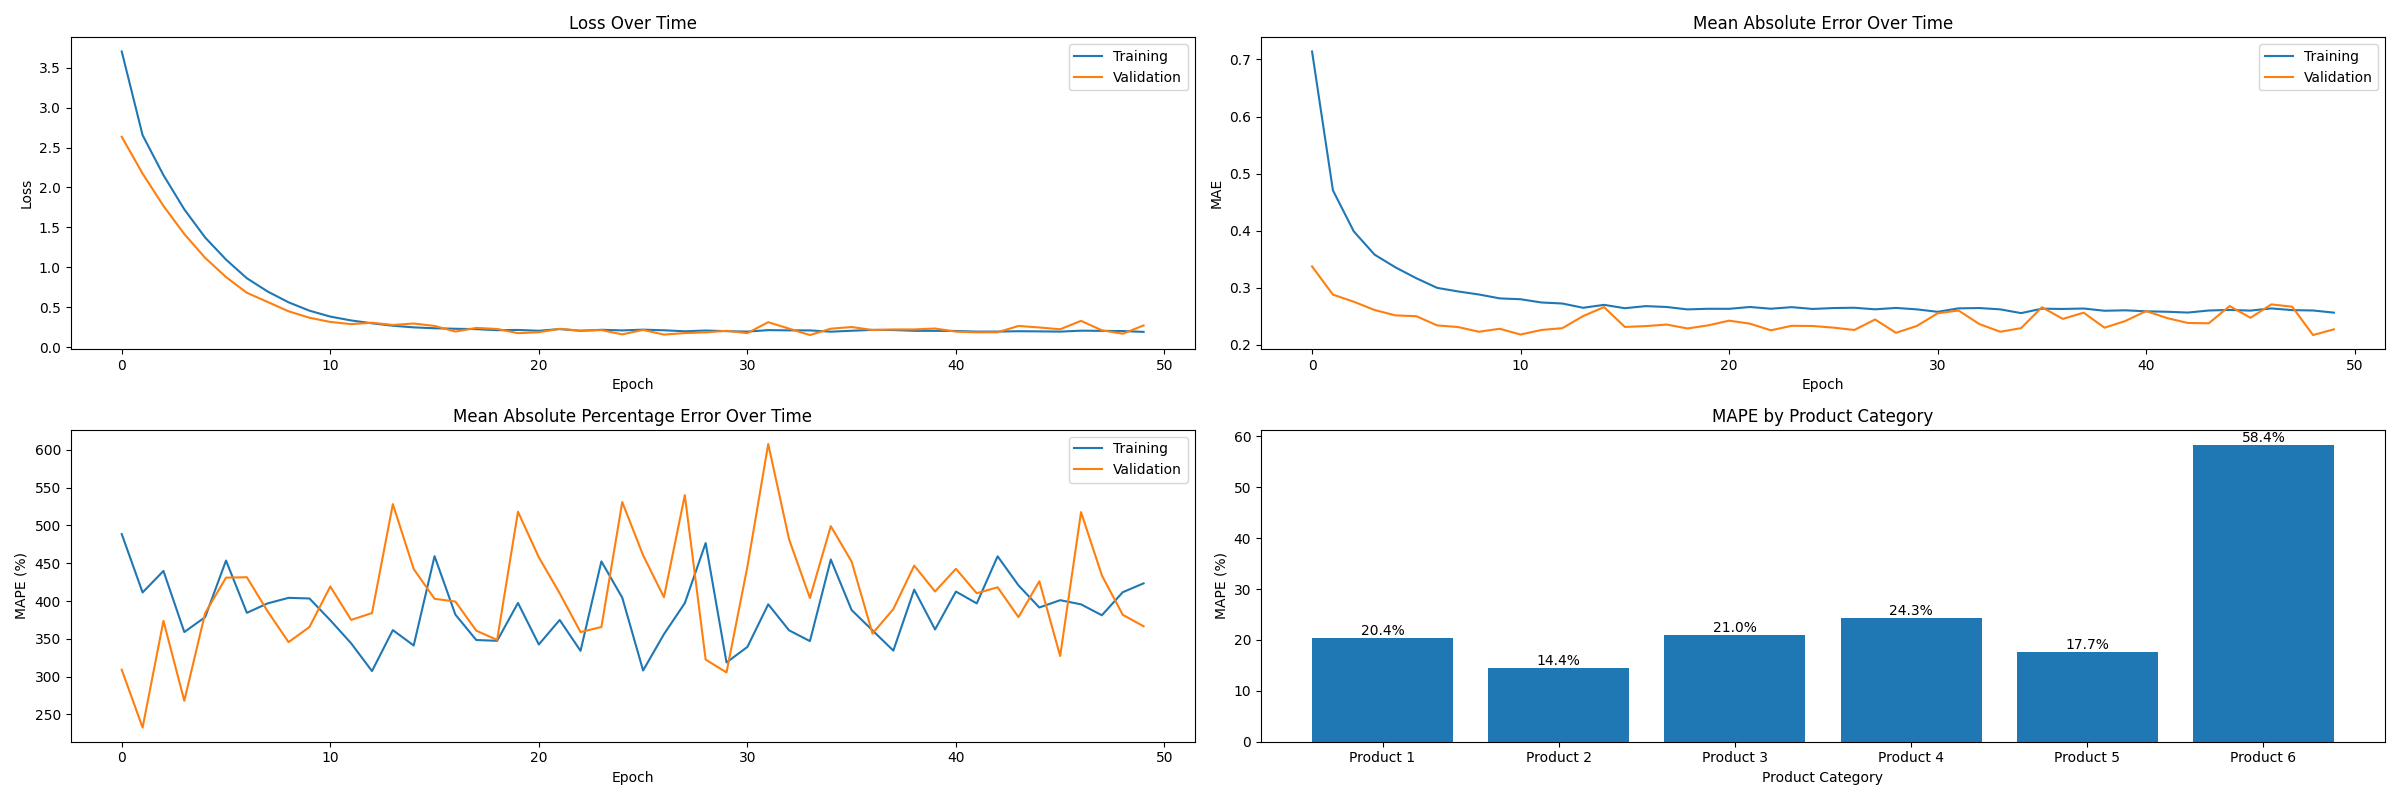
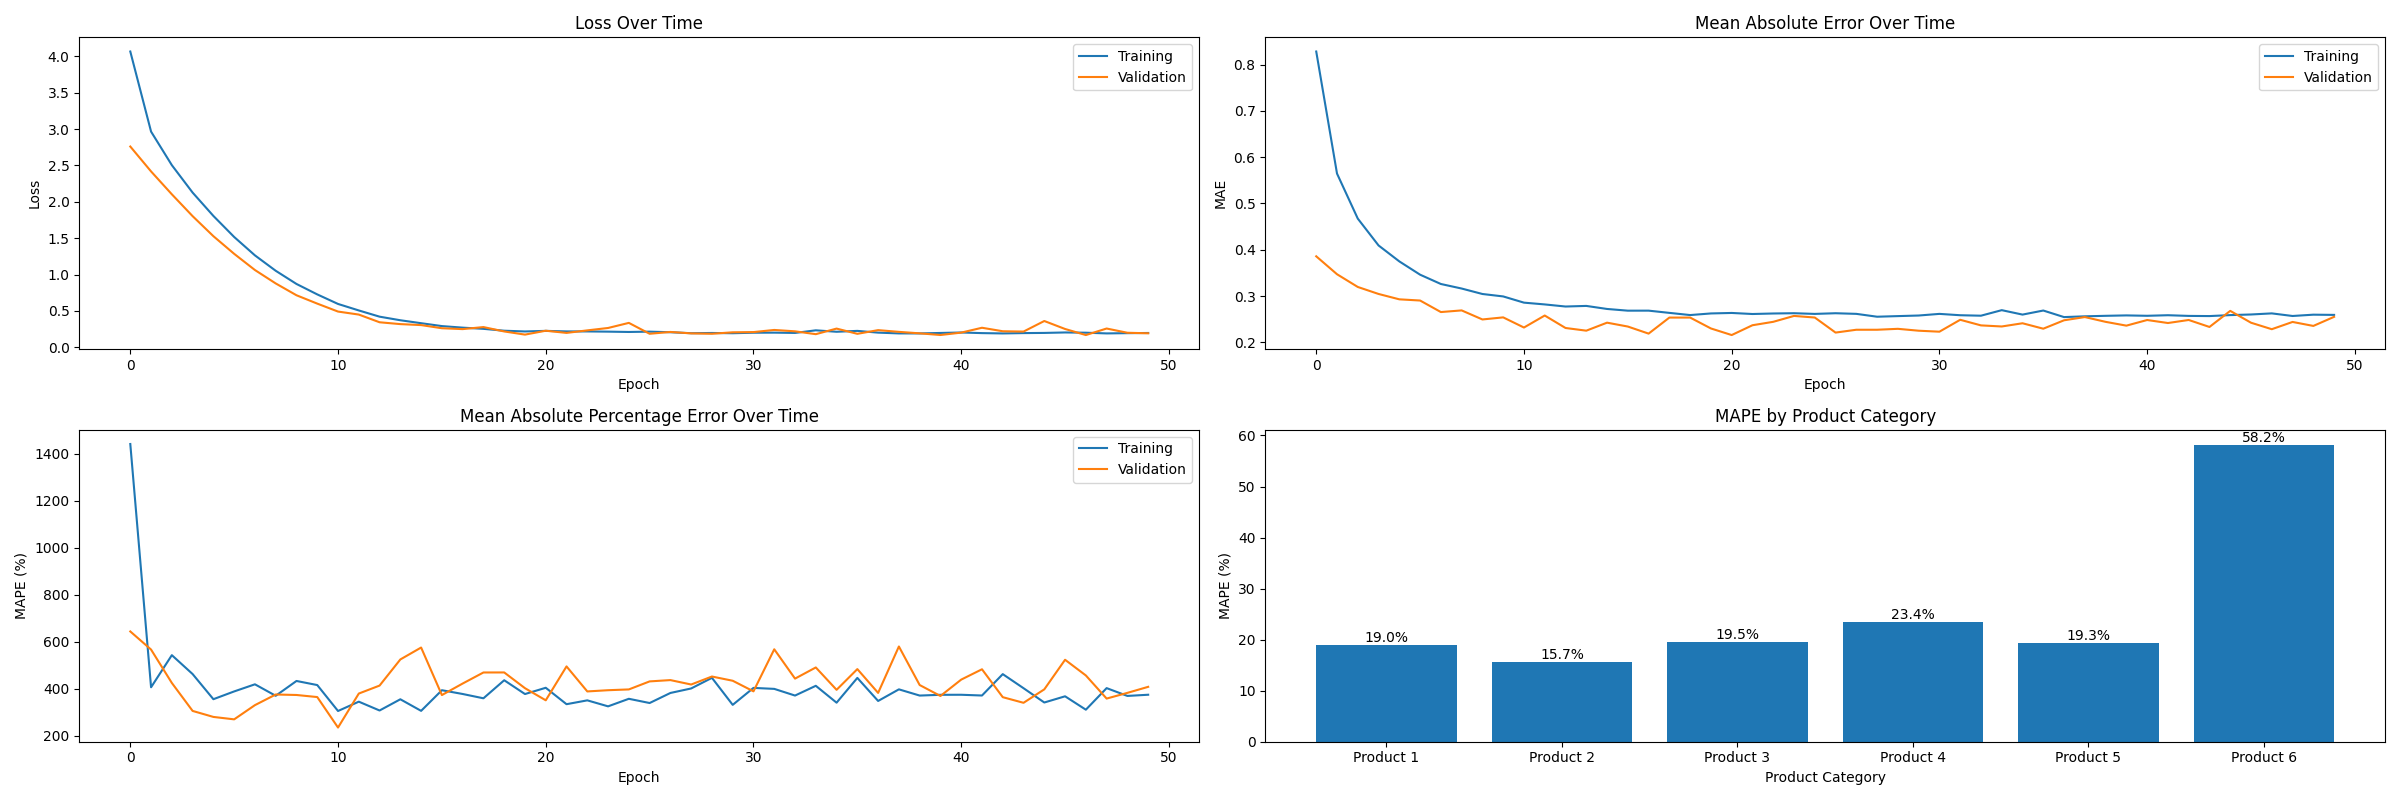
clean up

diff --git a/NeuralNetwork/neural_simple.py b/NeuralNetwork/neural_simple.py
@@ -64,35 +64,6 @@ def create_product_features(df):
 
     all_features = []
 
-    df_with_features['Datum'] = pd.to_datetime(
-        df_with_features['Datum'], errors='coerce')
-    df_with_features['is_seasonal_bread'] = ((df_with_features['Warengruppe'] == 6) &
-                                             df_with_features['Datum'].dt.month.isin([10, 11, 12, 1])).astype(int)
-
-    df_with_features['seasonal_bread_intensity'] = 0.0
-    seasonal_bread = df_with_features['is_seasonal_bread'] == 1
-
-    # Assign intensity values based on the sales pattern
-    df_with_features.loc[seasonal_bread & (
-        # October
-        df_with_features['Datum'].dt.month == 10), 'seasonal_bread_intensity'] = 0.5
-    df_with_features.loc[seasonal_bread & (
-        # November (peak)
-        df_with_features['Datum'].dt.month == 11), 'seasonal_bread_intensity'] = 1.0
-    df_with_features.loc[seasonal_bread & (
-        # December (peak)
-        df_with_features['Datum'].dt.month == 12), 'seasonal_bread_intensity'] = 1.2
-    df_with_features.loc[seasonal_bread & (
-        # January
-        df_with_features['Datum'].dt.month == 1), 'seasonal_bread_intensity'] = 0.4
-
-    all_features.extend(['is_seasonal_bread', 'seasonal_bread_intensity'])
-
-    """ product6_features = ['p6_is_season', 'p6_season_intensity']
-    mask_p6 = df_with_features['Warengruppe'] == 6
-    if mask_p6.any():
-        all_features.extend(product6_features)
- """
     # Temperature polynomials
     temp_poly = PolynomialFeatures(degree=3, include_bias=False)
     temp_features = temp_poly.fit_transform(df_with_features[['Temperatur']])
@@ -120,35 +91,78 @@ def create_product_features(df):
             df_with_features['Warengruppe'] == product_id).astype(int)
         all_features.append(product_col)
 
-        # Weather effects
+        # Add seasonal bread feature for Product 6
+        if product_id == 6:
+            df_with_features['is_seasonal_bread'] = ((df_with_features['Warengruppe'] == 6) &
+                                                     df_with_features['Datum'].dt.month.isin([10, 11, 12, 1])).astype(int)
+            all_features.append('is_seasonal_bread')
+
+            # Weather effects for seasonal bread
+            for weather in weather_features:
+                col_name = f'{weather}_seasonal_bread'
+                df_with_features[col_name] = df_with_features['is_seasonal_bread'] * \
+                    df_with_features[weather]
+                all_features.append(col_name)
+
+            # Weather code effects for seasonal bread
+            for weather_code in weather_codes:
+                col_name = f'{weather_code}_seasonal_bread'
+                df_with_features[col_name] = df_with_features['is_seasonal_bread'] * \
+                    df_with_features[weather_code]
+                all_features.append(col_name)
+
+            # Wind effects for seasonal bread
+            for wind in wind_features:
+                col_name = f'{wind}_seasonal_bread'
+                df_with_features[col_name] = df_with_features['is_seasonal_bread'] * \
+                    df_with_features[wind]
+                all_features.append(col_name)
+
+            # Time effects for seasonal bread
+            for time in time_features:
+                col_name = f'{time}_seasonal_bread'
+                df_with_features[col_name] = df_with_features['is_seasonal_bread'] * \
+                    df_with_features[time]
+                all_features.append(col_name)
+
+            # Event effects for seasonal bread
+            for event in event_features:
+                col_name = f'{event}_seasonal_bread'
+                df_with_features[col_name] = df_with_features['is_seasonal_bread'] * \
+                    df_with_features[event]
+                all_features.append(col_name)
+
+            # Temperature polynomial interaction for seasonal bread
+            col_name = f'Temp2_seasonal_bread'
+            df_with_features[col_name] = df_with_features['is_seasonal_bread'] * \
+                df_with_features['Temp2']
+            all_features.append(col_name)
+
+        # Regular product features
         for weather in weather_features:
             col_name = f'{weather}_product_{product_id}'
             df_with_features[col_name] = df_with_features[product_col] * \
                 df_with_features[weather]
             all_features.append(col_name)
 
-        # Weather code effects
         for weather_code in weather_codes:
             col_name = f'{weather_code}_product_{product_id}'
             df_with_features[col_name] = df_with_features[product_col] * \
                 df_with_features[weather_code]
             all_features.append(col_name)
 
-        # Wind effects
         for wind in wind_features:
             col_name = f'{wind}_product_{product_id}'
             df_with_features[col_name] = df_with_features[product_col] * \
                 df_with_features[wind]
             all_features.append(col_name)
 
-        # Time effects
         for time in time_features:
             col_name = f'{time}_product_{product_id}'
             df_with_features[col_name] = df_with_features[product_col] * \
                 df_with_features[time]
             all_features.append(col_name)
 
-        # Event effects
         for event in event_features:
             col_name = f'{event}_product_{product_id}'
             df_with_features[col_name] = df_with_features[product_col] * \
@@ -160,30 +174,8 @@ def create_product_features(df):
             df_with_features['Temp2']
         all_features.append(col_name)
 
-    """ if 6 in df_with_features['Warengruppe'].unique():
-        for feature in product6_features:
-            # Weather effects
-            for weather in weather_features:
-                col_name = f'{weather}_{feature}'
-                df_with_features[col_name] = df_with_features[feature] * \
-                    df_with_features[weather]
-                all_features.append(col_name)  # Moved inside the loop
-
-            # Weather code effects
-            for weather_code in weather_codes:
-                col_name = f'{weather_code}_{feature}'
-                df_with_features[col_name] = df_with_features[feature] * \
-                    df_with_features[weather_code]
-                all_features.append(col_name)  # Moved inside the loop
-
-            # Time effects
-            for time in time_features:
-                col_name = f'{time}_{feature}'
-                df_with_features[col_name] = df_with_features[feature] * \
-                    df_with_features[time]
-                all_features.append(col_name)  # Moved inside the loop """
-
     return df_with_features, all_features
+
 
 
 def plot_history(history, product_metrics):
@@ -266,7 +258,7 @@ def prepare_and_predict_umsatz_nn(df):
     ])
 
     # model.compile(optimizer=Adam(learning_rate=0.000665),
-    model.compile(optimizer=Adam(learning_rate=0.000665),
+    model.compile(optimizer=Adam(learning_rate=0.000576),
                   loss='mse',
                   metrics=['mae', tf.keras.metrics.MeanAbsolutePercentageError()])
 
@@ -304,7 +296,7 @@ def prepare_and_predict_umsatz_nn(df):
                 'RMSE': product_rmse,
                 'MAPE': product_mape}
 
-    return model, r2, rmse, product_metrics, scaler_X, scaler_y, history, feature_columns, overall_mape
+    return r2, rmse, product_metrics, history, overall_mape
 
 
 def main():
@@ -314,10 +306,8 @@ def main():
     df_featured = prepare_features(df_imputed)
     df_cleaned = handle_missing_values(df_featured)
 
-    print("Product 6 features present:", [
-          col for col in df_cleaned.columns if 'p6_' in col])
     # Train model
-    model, r2, rmse, product_metrics, scaler_X, scaler_y, history, feature_columns, overall_mape = prepare_and_predict_umsatz_nn(
+    r2, rmse, product_metrics, history, overall_mape = prepare_and_predict_umsatz_nn(
         df_cleaned)
 
     # Print results

diff --git a/data/data_prep.py b/data/data_prep.py
@@ -1,6 +1,5 @@
 import pandas as pd
 import numpy as np
-from sklearn.preprocessing import LabelEncoder
 
 
 def add_time_series_features(df):
@@ -29,28 +28,6 @@ def add_time_series_features(df):
     return df_with_lags
 
 
-def add_seasonal_product6_features(df):
-    mask = df['Warengruppe'] == 6
-
-    # Basic season flag (Oct-Jan)
-    df.loc[mask, 'p6_is_season'] = df.loc[mask,
-                                          'Datum'].dt.month.isin([10, 11, 12, 1]).astype(int)
-
-    # Seasonal intensity (peak in December)
-    df.loc[mask, 'p6_season_intensity'] = 0
-    seasonal_mask = mask & df['p6_is_season'].astype(bool)
-    df.loc[seasonal_mask & (df['Datum'].dt.month == 10),
-           'p6_season_intensity'] = 0.3  # Season start
-    df.loc[seasonal_mask & (df['Datum'].dt.month == 11),
-           'p6_season_intensity'] = 0.7  # Building up
-    df.loc[seasonal_mask & (df['Datum'].dt.month == 12),
-           'p6_season_intensity'] = 1.0  # Peak
-    df.loc[seasonal_mask & (df['Datum'].dt.month == 1),
-           'p6_season_intensity'] = 0.4   # Winding down
-
-    return df
-
-
 def prepare_features(df):
     df_prepared = df.copy()
 
@@ -58,12 +35,6 @@ def prepare_features(df):
     df_prepared['Datum'] = pd.to_datetime(df_prepared['Datum'])
 
     df_prepared = add_time_series_features(df_prepared)
-
-    # Clean weather codes
-    df_prepared['Wettercode'] = pd.to_numeric(
-        df_prepared['Wettercode'], errors='coerce')
-    mask = (df_prepared['Wettercode'] >= 0) & (df_prepared['Wettercode'] <= 99)
-    print(f"Invalid weather codes removed: {(~mask).sum()}")
 
     # for the weather also the most frequent ones might need to get their own features.
 
@@ -89,12 +60,6 @@ def prepare_features(df):
     df_prepared['weather_thunderstorm'] = df_prepared['Wettercode'].between(
         91, 99, inclusive='both').astype(int)
 
-    # Print distribution of weather categories
-    print("\nWeather category distribution:")
-    for col in df_prepared.filter(like='weather_').columns:
-        count = df_prepared[col].sum()
-        pct = (count / len(df_prepared)) * 100
-        print(f"{col}: {count} occurrences ({pct:.2f}%)")
 
     # for the wind the analysis many data is in moderate wind, so this might also be split to
     # a finer accuracy
@@ -119,32 +84,6 @@ def prepare_features(df):
     df_prepared['is_last_day_of_month'] = df_prepared['Datum'].dt.is_month_end
     df_prepared['is_last_day_of_month'] = df_prepared['is_last_day_of_month'].fillna(
         0)
-
-    # Pre-holiday indicator (day before holidays)
-    # df_prepared['is_pre_holiday'] = df_prepared['Datum'].shift(-1).isin(df_prepared[df_prepared['is_holiday'] == 1]['Datum'])
-
-    # Weekend + Holiday combination
-    # df_prepared['is_weekend_holiday'] = (df_prepared['is_weekend'] == 'Weekend') & (df_prepared['is_holiday'] == 1)
-
-    """ df_prepared['weather_ideal'] = df_prepared['Wettercode'].isin([0, 1, 2, 3]).astype(int)  # Perfect shopping weather, clear/stable conditions
-
-    df_prepared['weather_uncomfortable'] = df_prepared['Wettercode'].isin([4, 5, 6, 7, 8, 9]).astype(int)  # Conditions that make shopping less pleasant (dust, smoke, haze)
-
-    df_prepared['weather_light_rain'] = df_prepared['Wettercode'].isin([50, 51, 52, 60, 61, 62]).astype(int)  # Light rain/drizzle that might affect walking customers
-
-    df_prepared['weather_heavy_rain'] = df_prepared['Wettercode'].isin([63, 64, 65, 81, 82]).astype(int)  # Heavy rain likely to reduce shopping
-
-    df_prepared['weather_visibility_poor'] = df_prepared['Wettercode'].isin(range(40, 50)).astype(int)  # Fog and visibility issues
-
-    df_prepared['weather_severe'] = df_prepared['Wettercode'].isin([91, 92, 93, 94, 95, 96, 97, 98, 99]).astype(int)  # Thunderstorms and severe conditions
-
-    df_prepared['weather_recent_rain'] = df_prepared['Wettercode'].isin([20, 21, 25]).astype(int)  # Recent rain that might still affect shopping behavior  
-
-    df_prepared['weather_snow_related'] = df_prepared['Wettercode'].isin(range(70, 80)).astype(int)  # Snow and related conditions that might limit mobility
-
-    df_prepared['weather_humid_muggy'] = df_prepared['Wettercode'].isin([10, 11, 12]).astype(int)  # Humid/muggy conditions that might affect comfort
-
-    df_prepared['weather_wind_issues'] = df_prepared['Wettercode'].isin([18, 30, 31, 32, 33, 34, 35]).astype(int)  # Wind-related conditions that might deter shoppers """
 
     # Create weekday name and dummies
     df_prepared['Wochentag'] = df_prepared['Datum'].dt.day_name()
@@ -213,22 +152,11 @@ def prepare_features(df):
                                              (df_prepared['is_weekend'] == 'Weekend')).astype(int)
     df_prepared['is_peak_summer_weekend'] = df_prepared['is_peak_summer_weekend'].fillna(
         0)
-    
-    """ df_prepared = add_seasonal_product6_features(df_prepared) """
 
     return df_prepared
 
 
 def handle_missing_values(df):
-    """
-    Remove rows with missing values in key columns and save removed rows to a CSV file.
-
-    Parameters:
-    df (pandas.DataFrame): Input dataframe
-
-    Returns:
-    pandas.DataFrame: Dataframe with rows containing missing values removed
-    """
     df_cleaned = df.copy()
 
     # Define columns to check for missing values
@@ -297,48 +225,8 @@ def merge_datasets():
     df['is_school_holiday'] = df['is_school_holiday'].fillna(0)
     df['is_holiday'] = df['is_holiday'].fillna(0)
 
-    # print(df.head())
-
-    # Filter data to only include dates within the turnover date range
-    # not needed if doing left joins
-    # df = df[(df['Datum'] >= start_date) & (df['Datum'] <= end_date)]
 
     df.to_csv("data/merged_data.csv", index=False)
 
-    # here are all rows removed from the final merged dataframe for which no turnover data
-    # was available from the very beginning. Its not necessary to handle missing values for this
-    # later anyways if the data didnt exist.
-
     return df
 
-
-def analyze_weather_codes(df):
-    print("Weather code distribution:")
-    print(df['Wettercode'].value_counts().sort_index())
-    print("\nMissing values:", df['Wettercode'].isnull().sum())
-    print("\nUnique codes:", len(df['Wettercode'].unique()))
-
-
-def analyze_wind_data(df):
-    print("\nWind Speed Analysis:")
-    print("\nBasic Statistics:")
-    print(df['Windgeschwindigkeit'].describe())
-
-    print("\nValue Distribution:")
-    wind_dist = df['Windgeschwindigkeit'].value_counts().sort_index()
-    print(wind_dist)
-
-    print("\nDistribution by Categories:")
-    calm = (df['Windgeschwindigkeit'] < 5).sum()
-    moderate = ((df['Windgeschwindigkeit'] >= 5) &
-                (df['Windgeschwindigkeit'] < 15)).sum()
-    strong = (df['Windgeschwindigkeit'] >= 15).sum()
-
-    total = len(df)
-    print(f"Calm Wind (<5): {calm} occurrences ({(calm/total*100):.2f}%)")
-    print(
-        f"Moderate Wind (5-15): {moderate} occurrences ({(moderate/total*100):.2f}%)")
-    print(f"Strong Wind (>=15): {
-          strong} occurrences ({(strong/total*100):.2f}%)")
-
-    print("\nMissing values:", df['Windgeschwindigkeit'].isnull().sum())

diff --git a/data/ateam_analysis.py b/data/ateam_analysis.py
@@ -350,7 +350,7 @@ def analyze_product_6(df):
         'dow_stats': dow_stats,
         'temp_correlation': temp_corr
     }
-
+    
 
 def main():
     os.makedirs("analysis_results", exist_ok=True)
